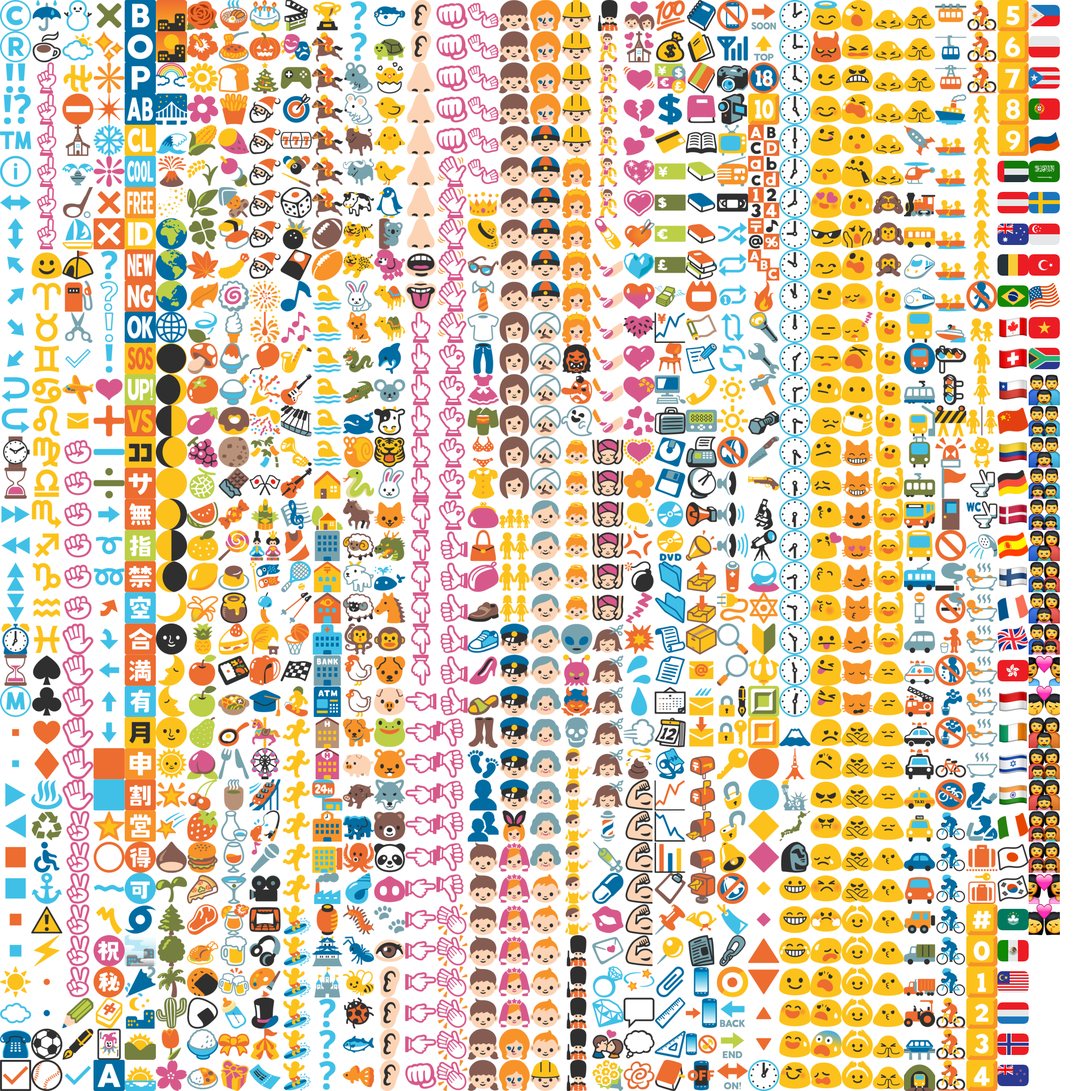
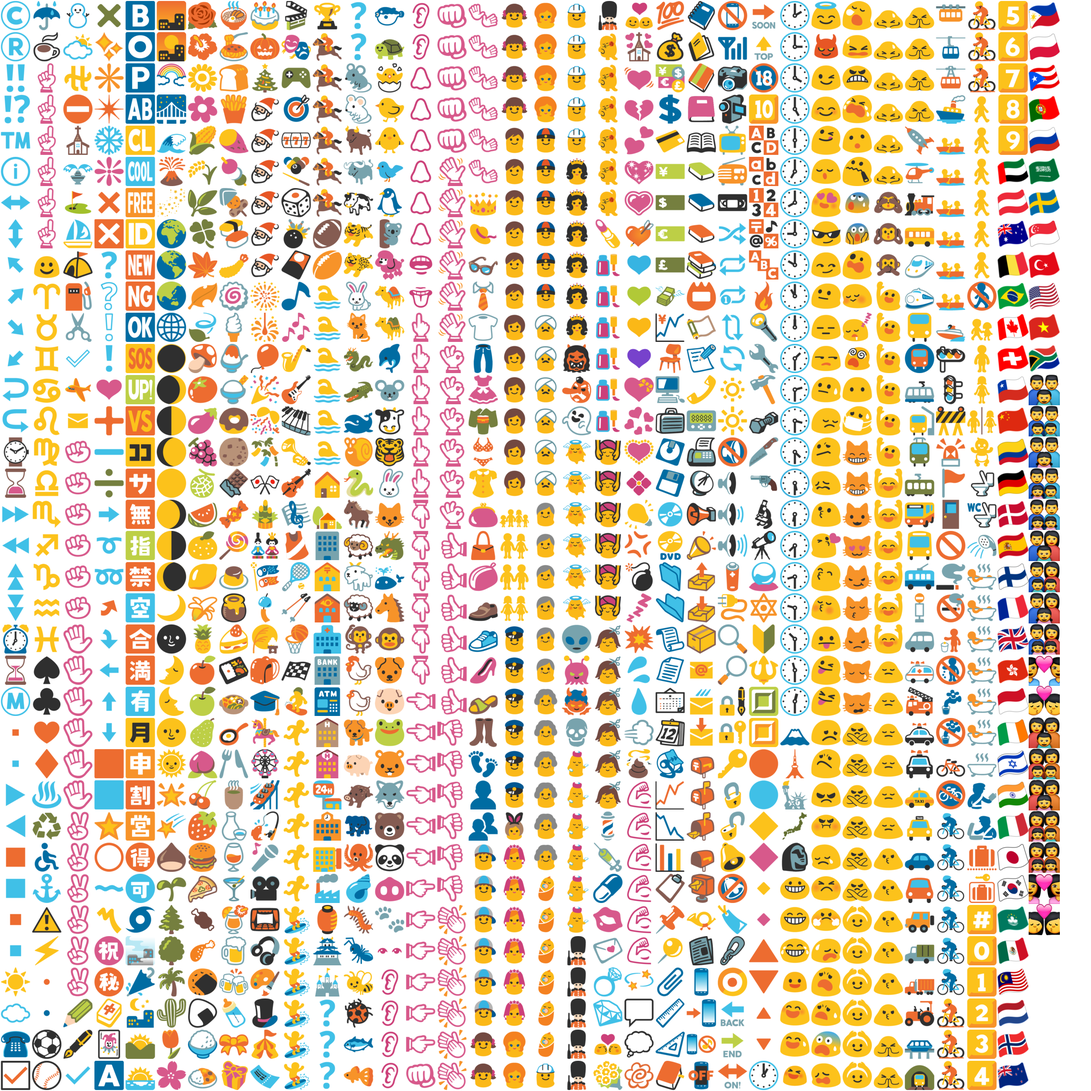
new 64px master sheet for google

Changed region(s): [[0.0, 0.0, 0.9688, 1.0]]

diff --git a/build/build_image.php b/build/build_image.php
@@ -37,7 +37,7 @@
 	#create_sheet('apple');
 	#create_sheet('twitter');
 	create_sheet('google');
-	create_sheet('emojione');
+	#create_sheet('emojione');
 
 
 	function create_sheet($type){
